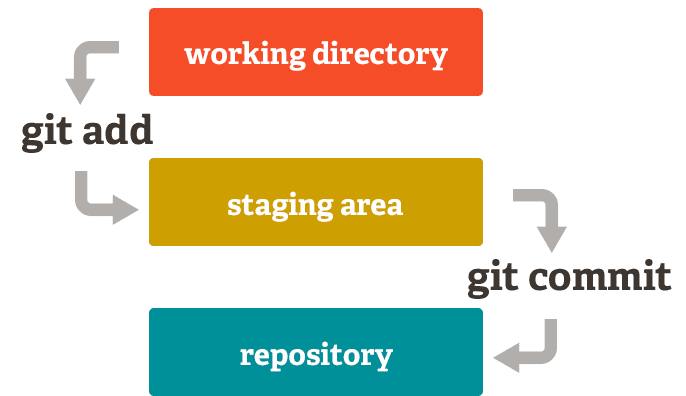
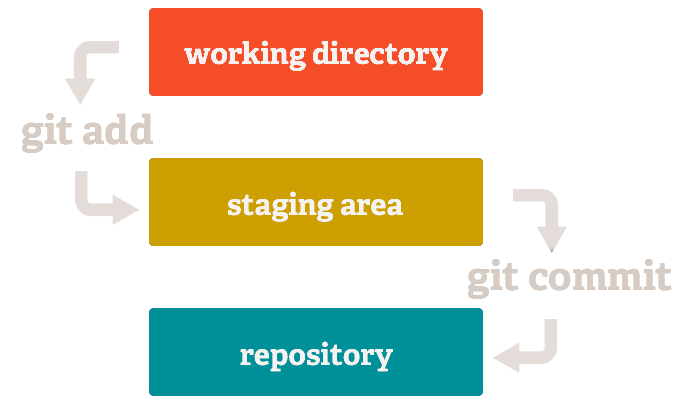
design fixes (images, text)

diff --git a/style.css b/style.css
@@ -1,7 +1,8 @@
 :root {
-    --primary-color: #0B2A50; /* */
-    --secondary-color: #000F22; /**/
-    --text-color: #f7f7f7;      /**/
+    --primary-color: #0B2A50; 
+    --secondary-color: #000F22; 
+    --text-color: #f7f7f7;     
+    --text-color: #e5e5e5;      
     --accent-color: #37ab57;
     --accent-color-shade: #238f42;
 }
@@ -13,13 +14,15 @@
     color: var(--text-color);
     box-sizing: border-box;
     font-weight: 100;
+    /* on mobile blue overlay */
+    -webkit-tap-highlight-color: transparent;
 }
 
 *::selection {
     background-color: var(--accent-color);
     color:var(--secondary-color);
-    font-weight: 800;  
-    /* nefunguje */
+    font-weight: 800;   /* nefunguje !!!! */
+   
 }
 
 
@@ -38,6 +41,8 @@ body {
 
     display: flex;
     flex-direction: column;
+    
+    background-color: var(--secondary-color);
 }
 
 main {
@@ -206,10 +211,6 @@ header {
     background-color: var(--accent-color-shade);
 }
 
-.learn-text a{
-    font-weight: bold;
-    text-decoration: underline;
-}
 
 
 /* -----------------ERROR ---------------------- */
@@ -279,7 +280,7 @@ aside {
     position: sticky;
     top: 66px;
     /* margin-right: 20px; */
-    font-weight: 400;
+    /* font-weight: 100; */
 
     /* justify-self: start; */
 }
@@ -395,6 +396,17 @@ h3::before {
     content: "→ ";
 }
 
+.learn-text a{
+    font-weight: bold;
+    text-decoration: underline;
+}
+
+
+.learn-text b{
+    color: #37ab57;
+    font-weight: 800;
+}
+
 .text-info {
     background-color: var(--secondary-color);
     /* background-color: var(--accent-color); */
@@ -450,7 +462,7 @@ ul {
 
 .code{
     font-family: Consolas, 'courier new';
-    color: #f1f1f1;
+    color: var(--text-color);
     background-color: #303030;
     font-size: smaller;
     word-spacing: 0px;
@@ -465,13 +477,11 @@ ul {
 
     i {
         font-family: Consolas, 'courier new';
-        color: #f1f1f1;
-        word-spacing: 0px;
     }
 }
 
 .code::selection, .code *::selection{
-    color: var(--text-color);
+    
 }
 
 .code2 {

diff --git a/JS/pages.js b/JS/pages.js
@@ -374,13 +374,12 @@ const pagesData = {
 
             <h3>Grafické zobrazení commitů</h3>
             <p>Abychom si lépe představili, jak vypadá náš repozitář s commity, můžeme si ho graficky znázornit. 
-            Jednotlivé commity se zobrazují jako <b>kroužky spojené linkou</b>. 
+            Jednotlivé commity se zobrazují jako <b>kolečka spojená linkou</b>. 
             Na těchto ilustracích se ukazuje, jak fungují různé příkazy, co se děje s commity atd.
-            Aktuální commit na kterém se právě nacházíme (poslední, co jsme provedli) se označuje <b>HEAD</b>, také ukazatel nebo pointer. 
-            Master (jindy třeba main) je hlavní větev, feature je druhá větev.</p>
+            Aktuální commit, na kterém se právě nacházíme (poslední, co jsme provedli) se označuje <b>HEAD</b>, také ukazatel nebo pointer. 
+            <b>Main</b> (v minulosti master) je hlavní větev, <b>Feature</b> je druhá větev.</p>
             <div class="parent">
-                <img src="/images/kap4/commits_ilustrated.png" class="learn-img-big">
-                upravit barvy a pruhlednost
+                <img src="/images/kap4/commits-ilustrated.png" class="learn-img-big">
             </div>
 
 

diff --git a/index.html b/index.html
@@ -34,8 +34,8 @@
         <!-- <div id="main"></div> -->
     </main>
 
-    <script src="js/router.js" type="module"></script>
-    <script src="js/openAside.js" defer></script>
+    <script src="JS/router.js" type="module"></script>
+    <script src="JS/openAside.js" defer></script>
 
 
 </body>
